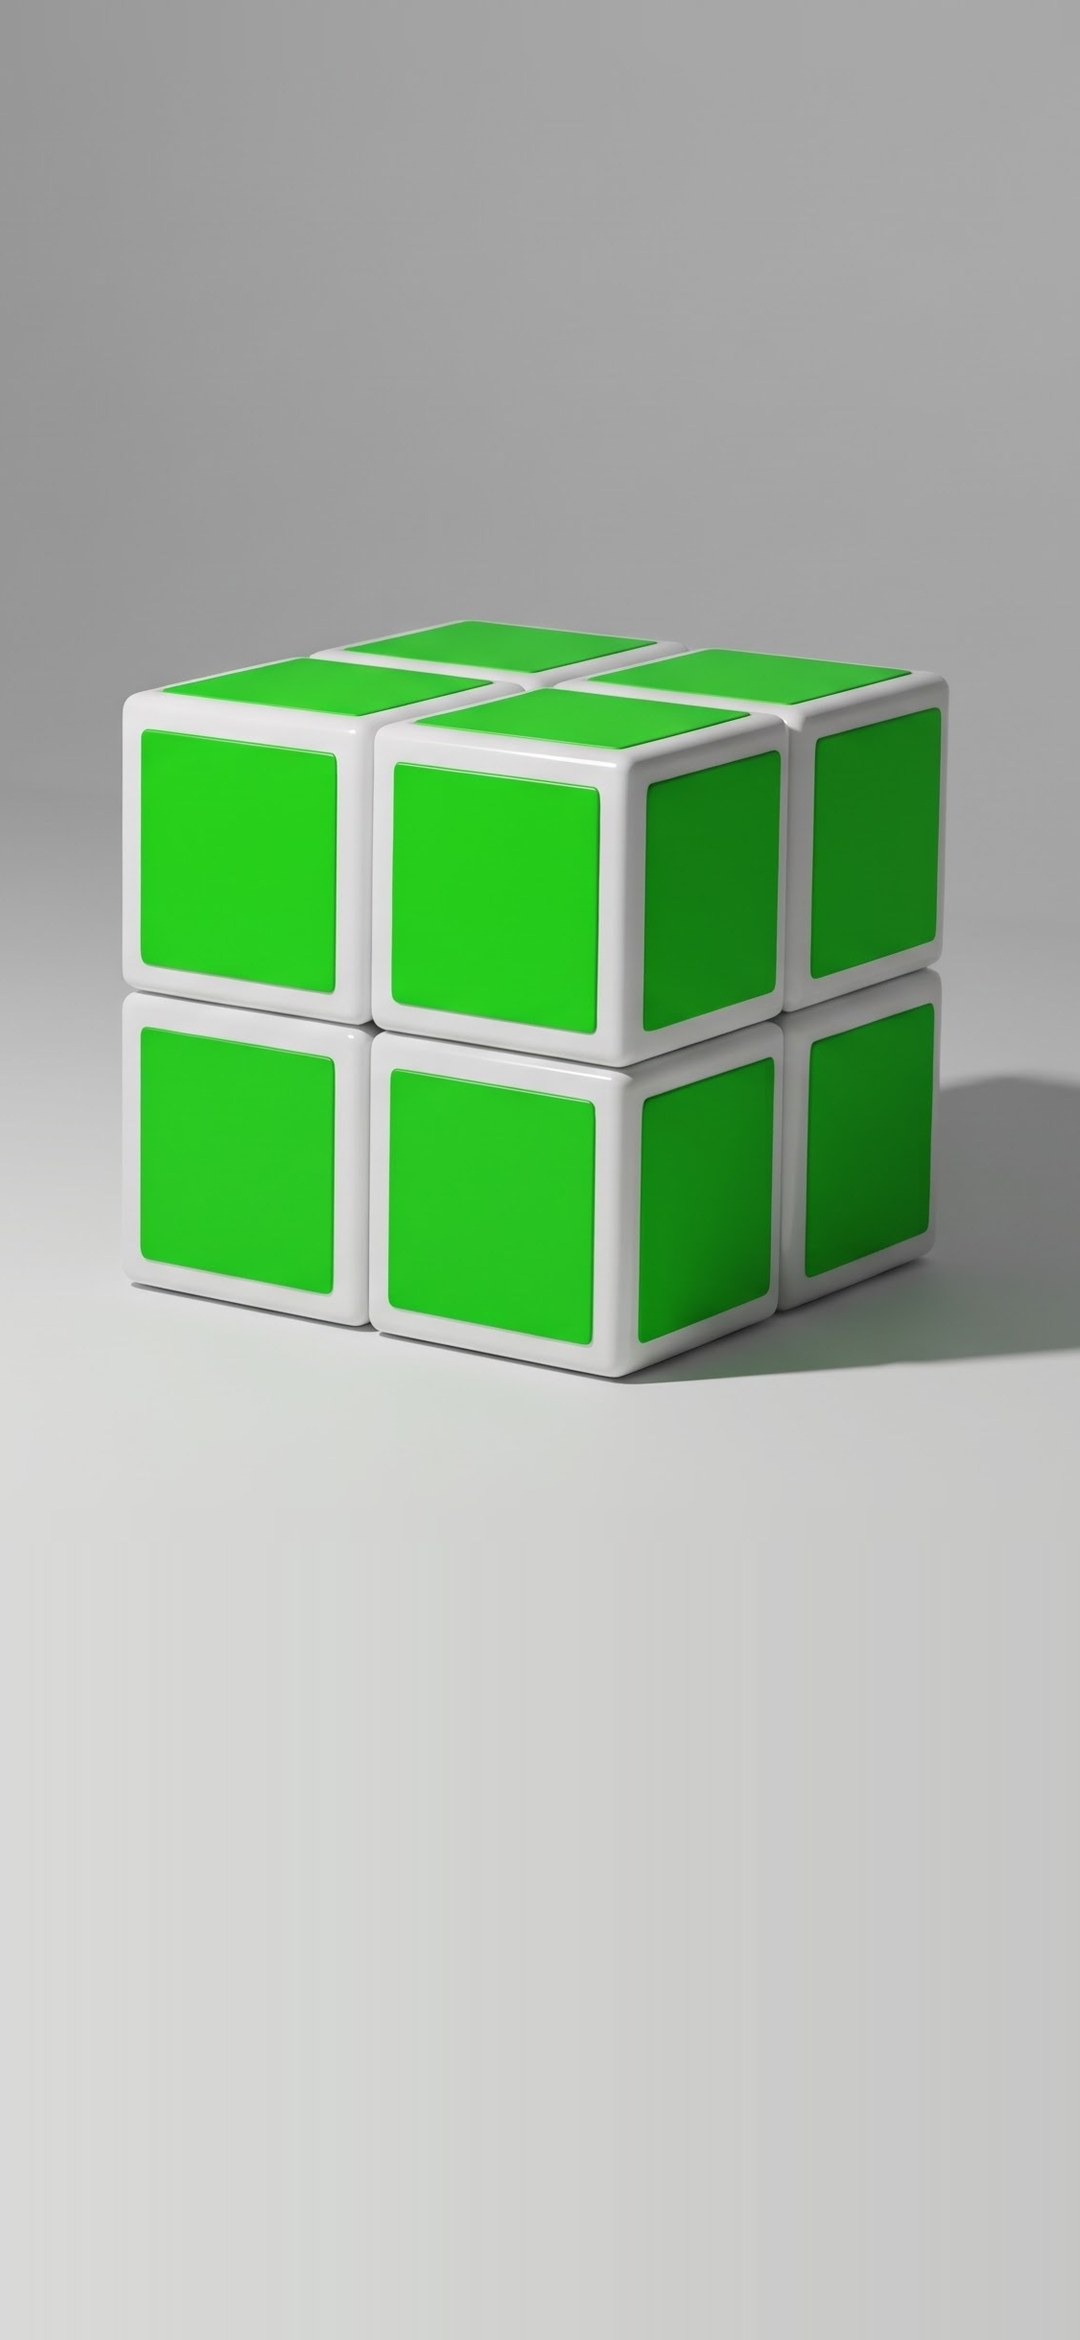
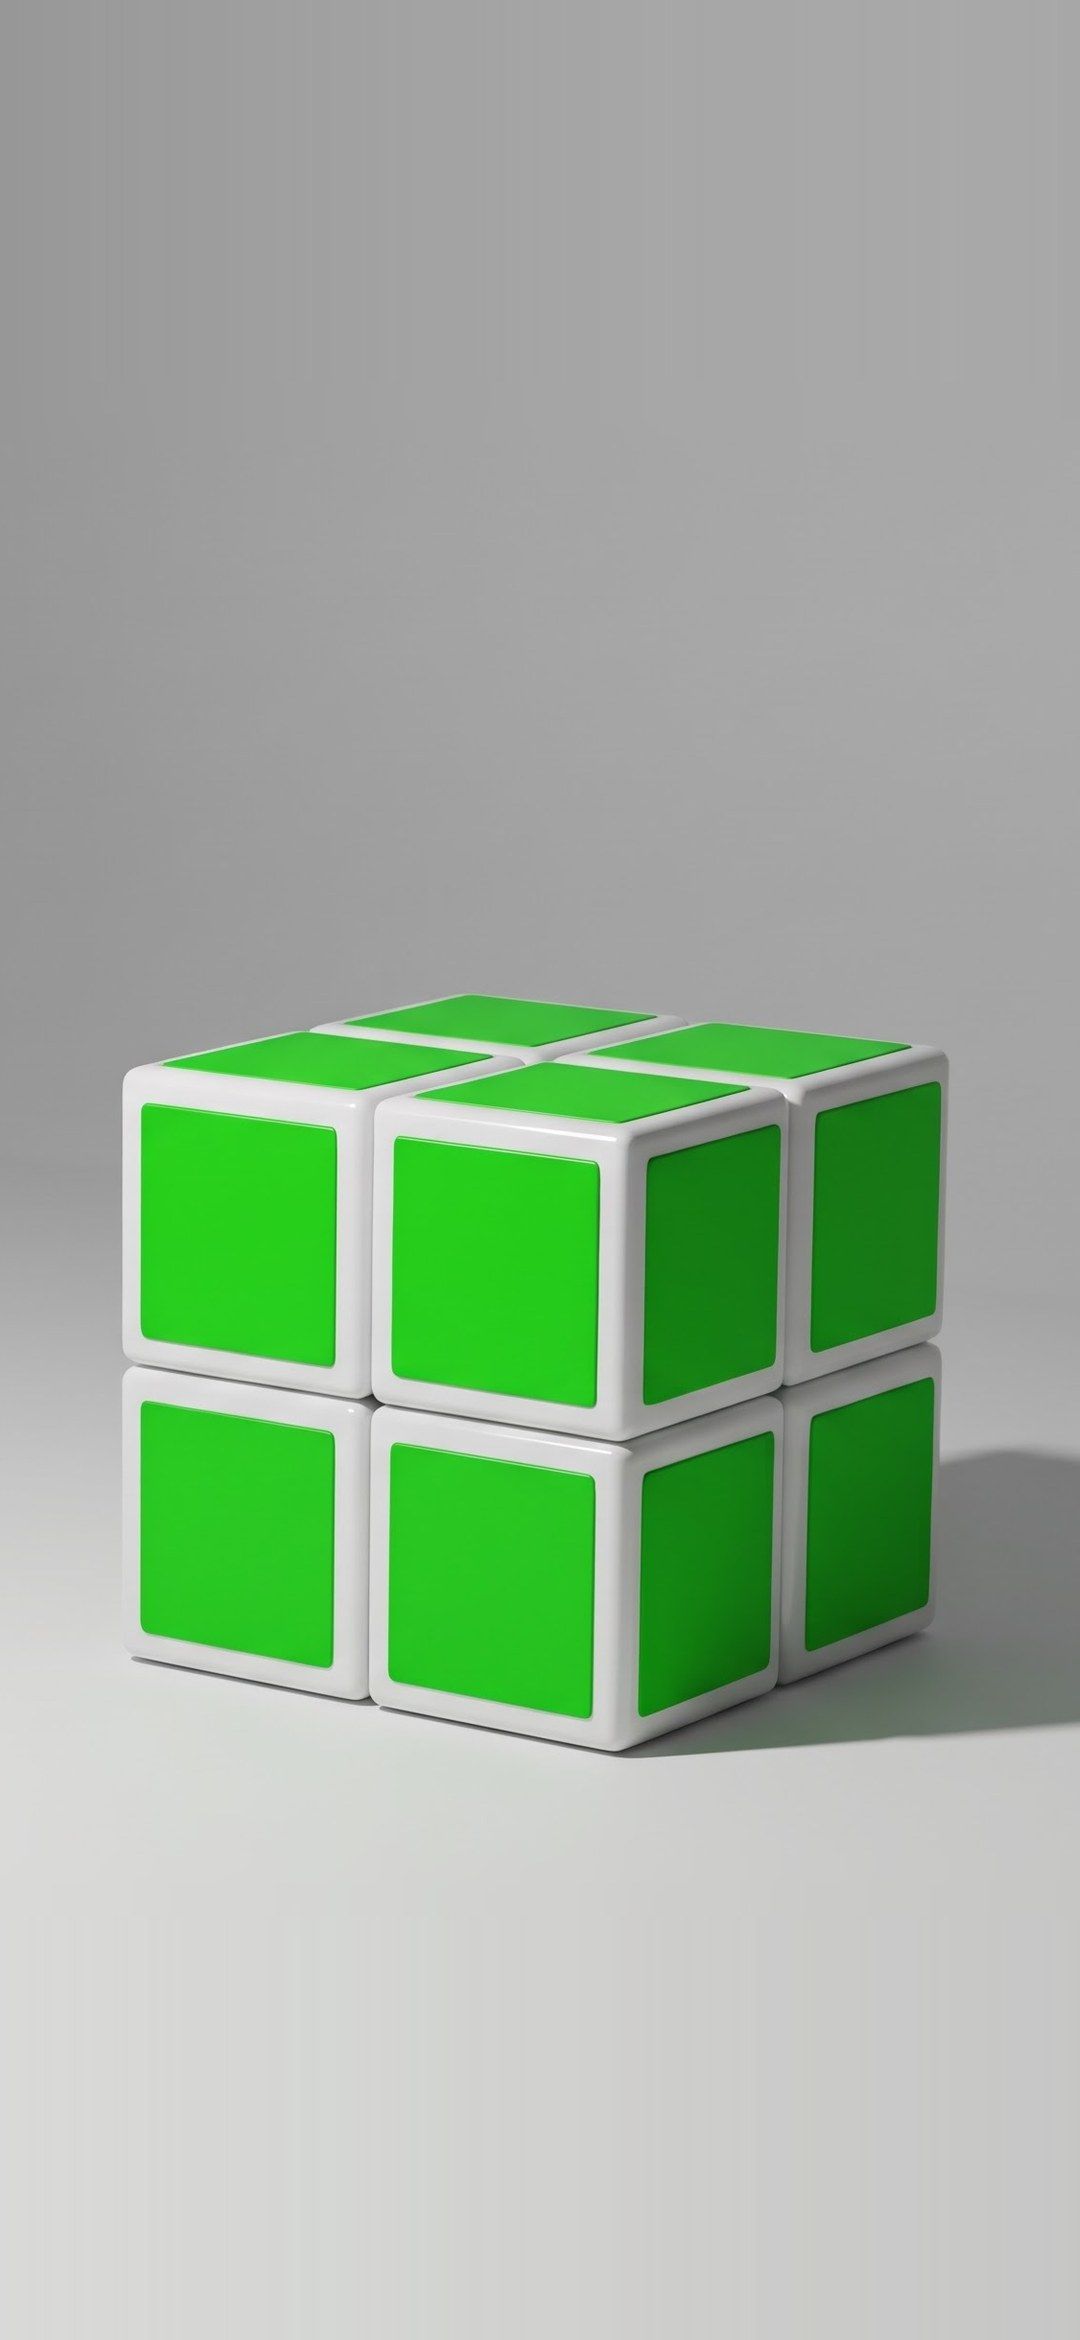
GreenOS: на телефоне стоя - значки сеткой сверху, кубик ниже
greenos-wallpaper раскладывает значки idesk при смене ориентации (стоя - по три сверху, иначе - столбцом
слева), перетащенные остаются; в greenos-tall.jpg кубик на 58% высоты. Файлы значков - с номерами
(порядок раскладки).

diff --git a/bundles/greenos/wallpaper.py b/bundles/greenos/wallpaper.py
@@ -1,7 +1,7 @@
 #!/usr/bin/env python3
 """Обои GreenOS из картинки с кубиком (wallpaper-src.jpg) -> fs/usr/share/backgrounds/:
 greenos.jpg - для широкого экрана: снизу продолжен пол, чтобы кубик стоял выше панели задач;
-greenos-tall.jpg - для телефона стоя: кубик на ~80% ширины чуть выше середины, фон продолжен вверх и
+greenos-tall.jpg - для телефона стоя: кубик на ~80% ширины ниже середины (сверху - значки), фон продолжен вверх и
 вниз (повтор крайних строк и размытие - фон на картинке плавный). Где кубик в greenos.jpg, пишется в
 greenos-wallpaper (CUBE_X): на экране уже картинки кадр - вокруг кубика. Нужен Pillow:
 python3 bundles/greenos/wallpaper.py"""
@@ -62,7 +62,7 @@ def main():
     cx, cy = (x0 + x1) / 2 * s, (y0 + y1) / 2 * s
     left = round(min(max(cx - W / 2, 0), im.width - W))
     im = im.crop((left, 0, left + W, im.height))
-    top = max(0, round(H * 0.42 - cy))
+    top = max(0, round(H * 0.58 - cy))  # выше - место под значки рабочего стола
     tall = extend(im, top, max(0, H - top - im.height))
     tall.save(os.path.join(OUT, "greenos-tall.jpg"), quality=88, optimize=True)
     print("greenos-tall.jpg %dx%d" % tall.size)
